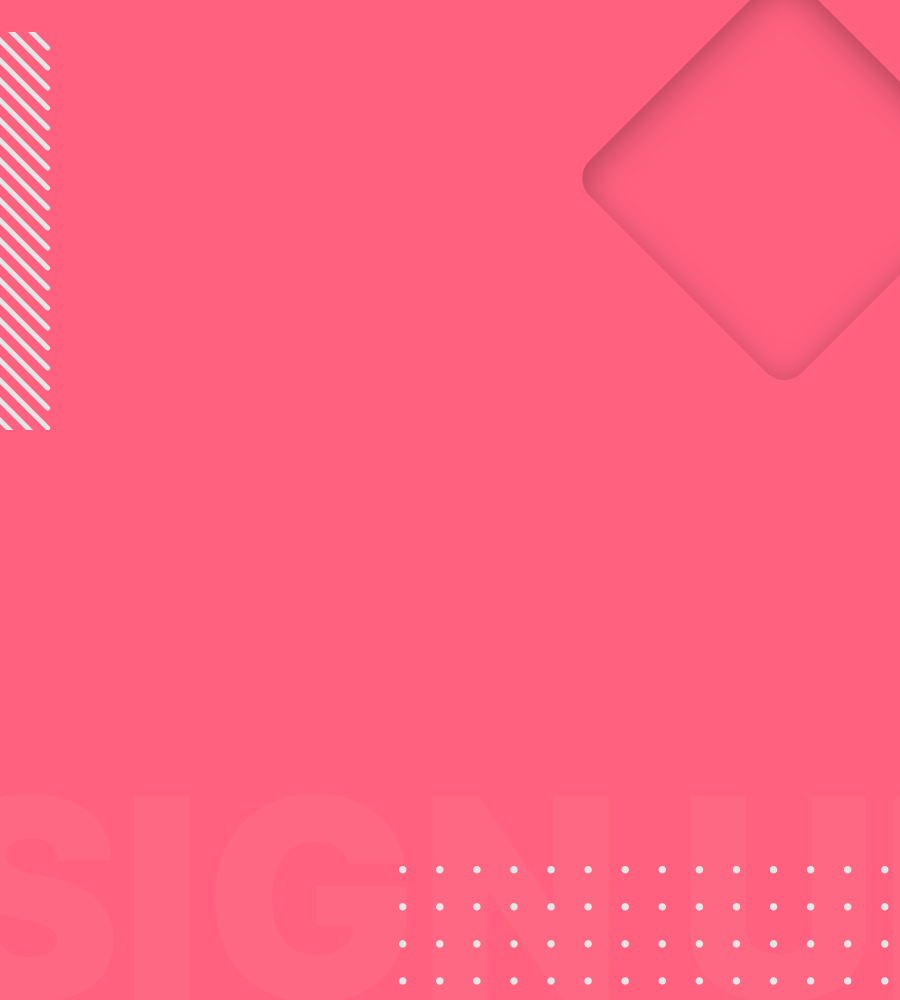
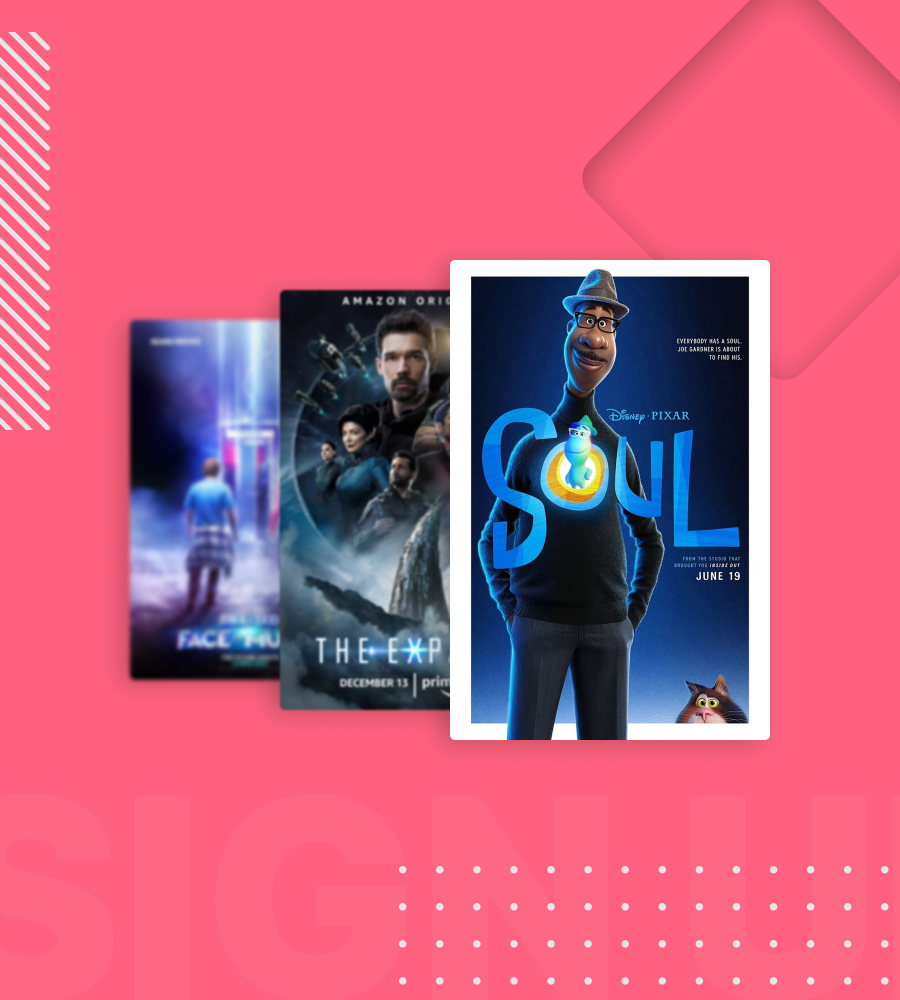
create new signup image with information, add to signup page, cleanup signup css file

diff --git a/src/pages/signup.css b/src/pages/signup.css
@@ -1,52 +1,32 @@
 .signup-container {
-    /* position: fixed; */
-    /* position: relative; */
-    /* height: calc(100vh - 60px); */
-    /* height: 100vh; */
     display: flex;
     align-items: center;
     justify-content: center;
-    /* overflow: scroll; */
 }
 
 .signup-image {
     position: fixed;
     top: 60px;
     left: 0;
-    height: 100vh;
+    height: calc(100vh - 60px);
     width: 50vw;
     background-image: url('/WL-signup-image.png');
     background-repeat: no-repeat;
-    background-position: left;
+    background-position: center;
     background-size: cover;
 }
 
 .signup-form-container {
     margin-top: 100px;
-    /* padding-top: 120px; */
-    /* margin-bottom: 82px; */
-    /* margin-left: 50vw; */
-    /* height: calc(100vh - 137px); */
-    /* height: 100vh; */
-    /* width: 50vw; */
-    /* width: 280px; */
     display: flex;
-    /* margin-bottom: 76px; */
     flex-direction: column;
     align-items: center;
     justify-content: center;
 }
 
-.signup-form {
-    /* height: 100vh; */
-    /* width: 50vw; */
-    /* overflow: scroll; */
-}
-
 .signup-form form {
     width: 280px;
     margin-left: 50vw;
-    /* margin-top: 70px; */
     margin-bottom: 171px;
 }
 
@@ -69,7 +49,6 @@
     border: 2px solid var(--gray);
     overflow: visible;
     box-sizing: border-box;
-    /* background-color: var(--gray); */
 }
 
 .signup-form button {

diff --git a/README.md b/README.md
@@ -143,8 +143,7 @@ As a member of 'Watch Later', a user can log in to their account and view a list
 - [x] add h3 back to signup form, form spacing
 - [X] add overflow scroll for signup form
 - [x] fix signup form vertical responsiveness
-- [ ] create new signup image with information, add to signup page
-- [ ] cleanup signup css file
+- [x] create new signup image with information, add to signup page, cleanup signup css file
 
 
 
